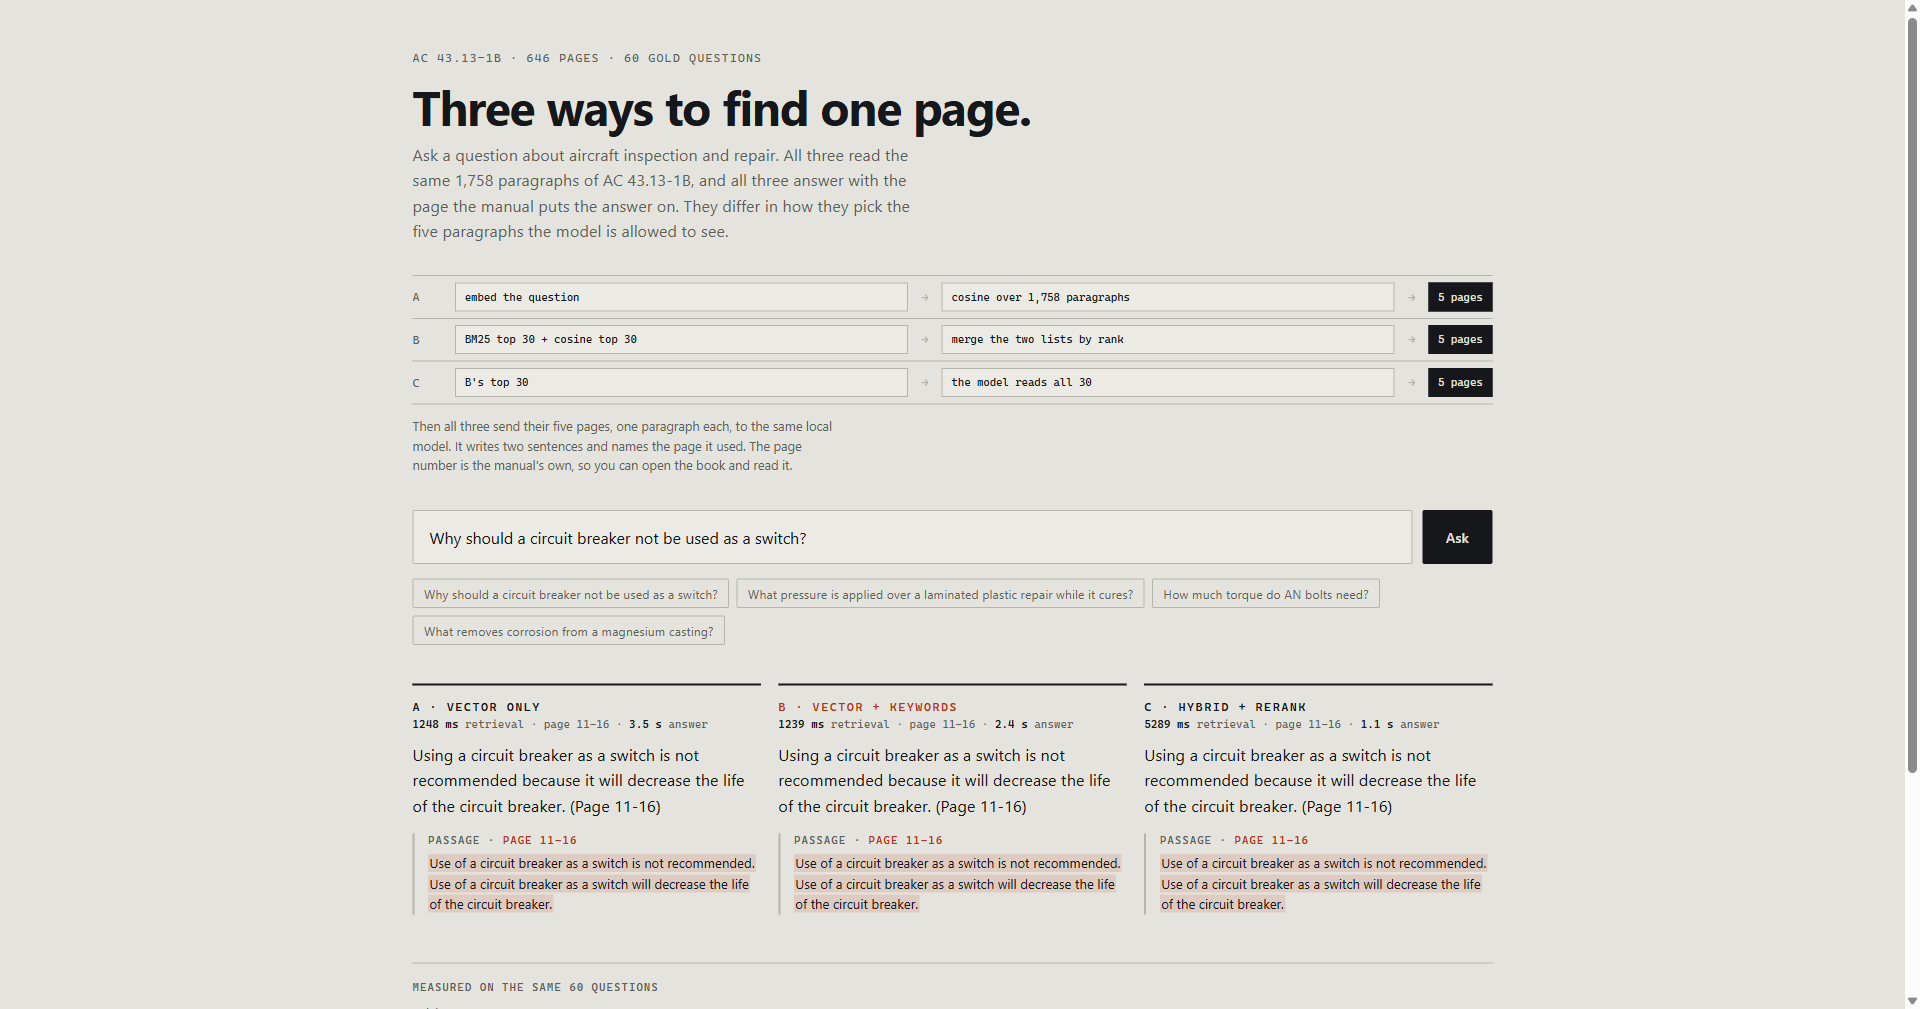
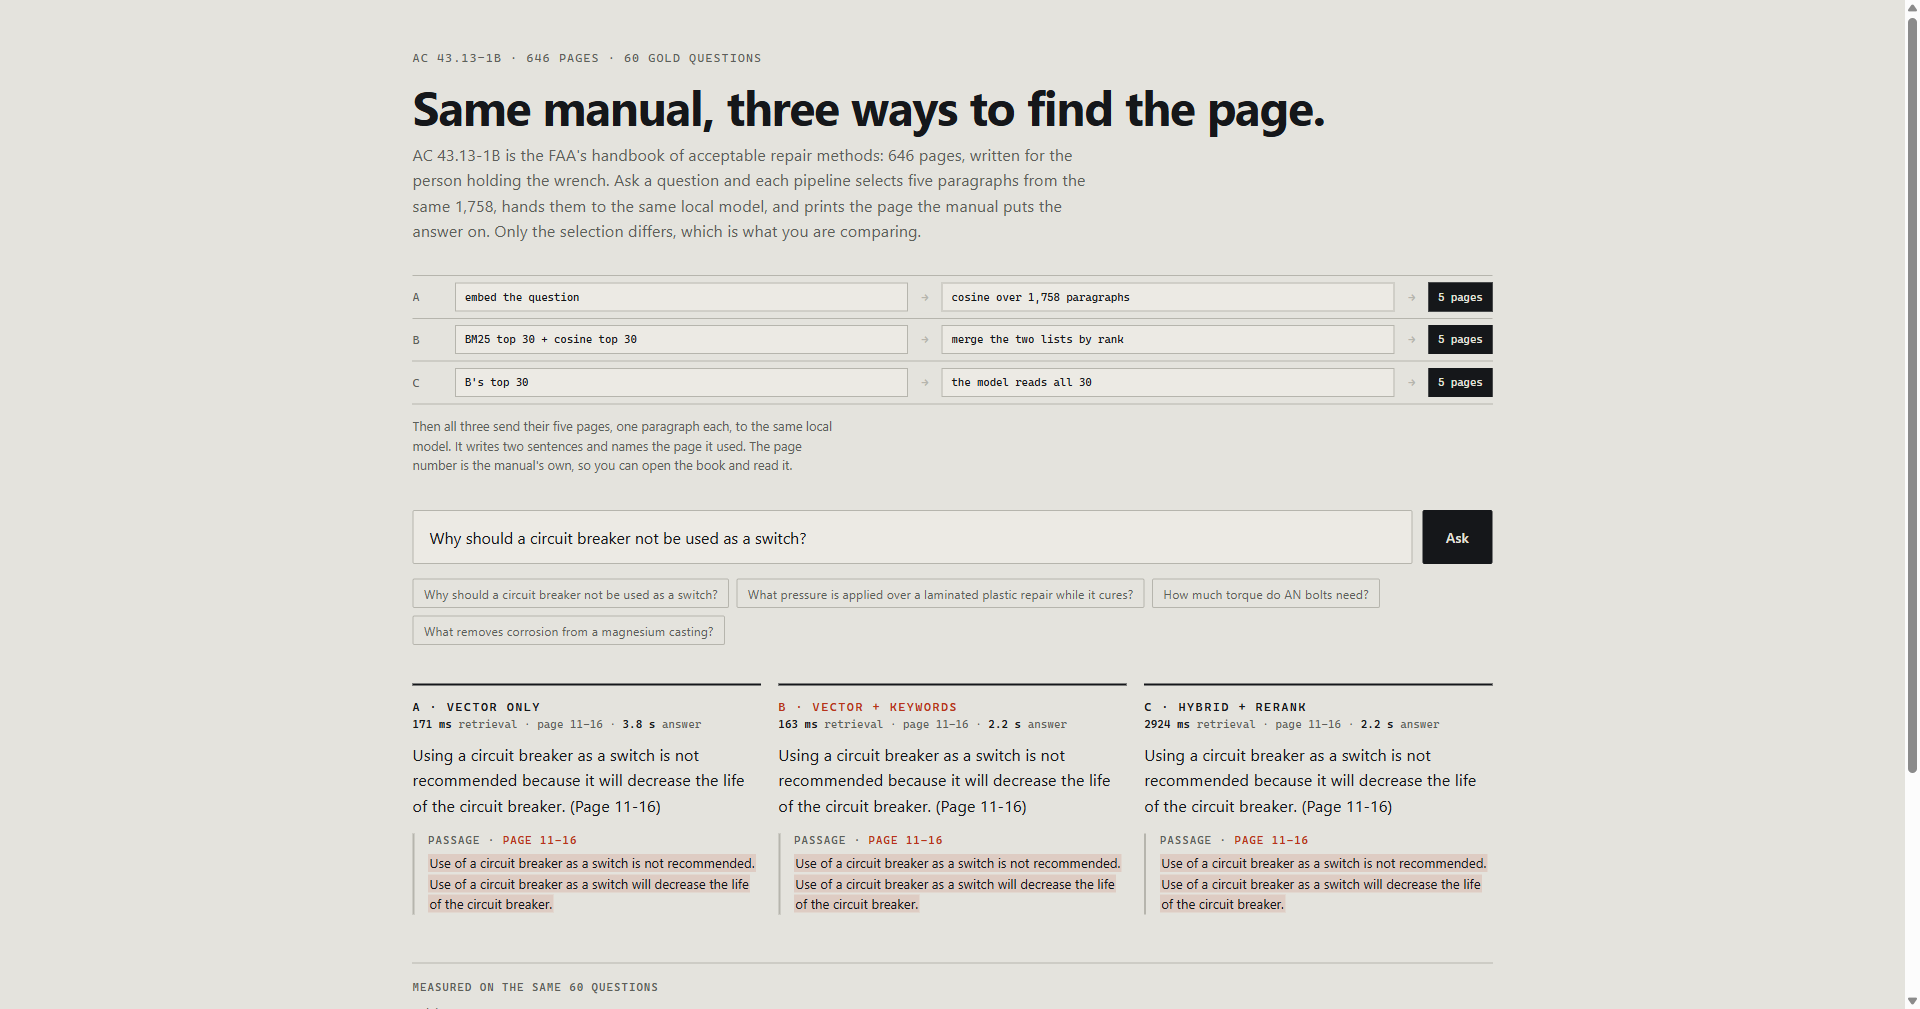
Say what the page is for, and show the streaming numbers
Header rewritten around the manual rather than the metaphor; README gains a before/after table for streaming and the measured reason the three answers still serialise on one GPU.

Changed region(s): [[0.2188, 0.0922, 0.6875, 0.2458], [0.4062, 0.7066, 0.5625, 0.7374], [0.2188, 0.7066, 0.375, 0.7374]]

diff --git a/public/index.html b/public/index.html
@@ -29,7 +29,7 @@
     text-transform: uppercase; color: var(--muted); margin: 0 0 1.1rem;
   }
   h1 { font-size: clamp(1.9rem, 4.2vw, 3rem); line-height: 1.02; margin: 0 0 .7rem; letter-spacing: -.025em; font-weight: 700; }
-  .lede { font-size: 1.02rem; line-height: 1.55; color: var(--muted); max-width: 58ch; margin: 0 0 2rem; }
+  .lede { font-size: 1.02rem; line-height: 1.55; color: var(--muted); max-width: 78ch; margin: 0 0 2rem; }
   .lede b { color: var(--ink); font-weight: 600; }
 
   .methods { margin: 0 0 2.2rem; overflow-x: auto; }
@@ -113,10 +113,11 @@
 <body>
 <main>
   <p class="kicker">AC 43.13-1B · 646 pages · <span class="nq">60</span> gold questions</p>
-  <h1>Three ways to find one page.</h1>
-  <p class="lede">Ask a question about aircraft inspection and repair. All three read the same
-  1,758 paragraphs of AC 43.13-1B, and all three answer with the page the manual puts the
-  answer on. They differ in how they pick the five paragraphs the model is allowed to see.</p>
+  <h1>Same manual, three ways to find the page.</h1>
+  <p class="lede">AC 43.13-1B is the FAA's handbook of acceptable repair methods: 646 pages,
+  written for the person holding the wrench. Ask a question and each pipeline selects five
+  paragraphs from the same 1,758, hands them to the same local model, and prints the page the
+  manual puts the answer on. Only the selection differs, which is what you are comparing.</p>
 
   <div class="methods">
     <div class="lane">

diff --git a/README.md b/README.md
@@ -246,6 +246,23 @@ that starts in half a second feels like a different product.
 
 ---
 
+## Before and after: streaming and parallel arms
+
+| | before | after |
+|---|---|---|
+| first words on screen | 5.9 s, when all three had answered | **1.5 s** |
+| first complete answer | 5.9 s | **2.5 s** |
+| all three complete | 5.9 s | 5.2 s |
+| how the columns fill | all at once | A, then B, then C, each as it finishes |
+
+The three answers still do not decode at the same instant. Ollama runs one generation per
+model at a time on this GPU, so B's request is in flight after 0.23 s but starts decoding
+when A releases the model. What changed is that nothing waits for the slowest arm: the
+request leaves immediately, the text appears as it is produced, and the first answer is
+readable at 1.5 s instead of 5.9 s. Real overlap needs the server restarted with
+`OLLAMA_NUM_PARALLEL=2`, which halves each arm's tokens per second and was not worth the
+trade: a two-slot attempt still serialised.
+
 ## Run it
 
 Needs `pdftotext` (Poppler) and Ollama with `qwen3-embedding:0.6b` and `qwen3.8-27b`.
